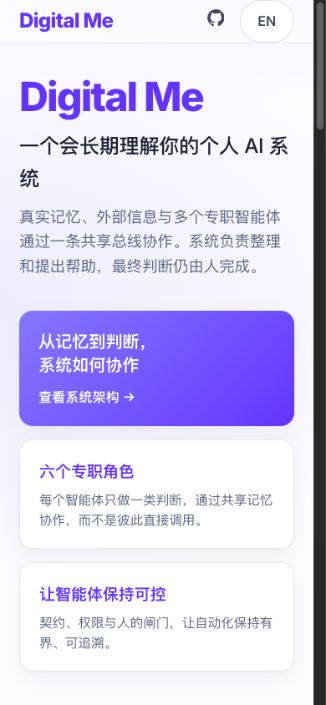
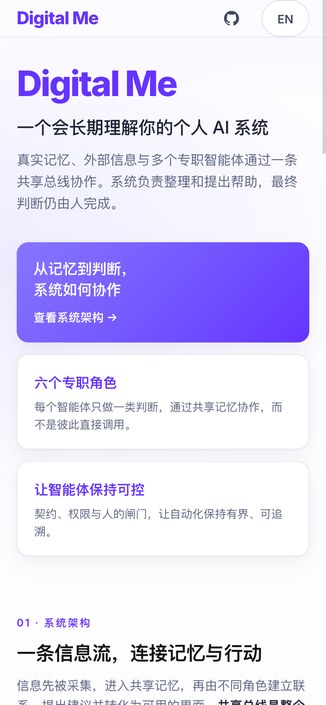
no-mistakes(review): Recapture QA screenshots at HEAD, add mobile English state

diff --git a/design-qa.md b/design-qa.md
@@ -5,7 +5,8 @@
 - Live baseline: `https://digital-me-dashboard.vercel.app/`
 - Side-by-side evidence: `qa/source-vs-minimal.jpg` (live baseline on the left, minimal architecture-first revision on the right)
 - Final desktop states: `qa/minimal-desktop-en-final.jpg`, `qa/minimal-desktop-zh.jpg`
-- Final mobile states: `qa/minimal-mobile-hero-zh-final.jpg`, `qa/minimal-mobile-structure-zh-final.jpg`
+- Final mobile states: `qa/minimal-mobile-hero-zh-final.jpg`, `qa/minimal-mobile-structure-zh-final.jpg`, `qa/minimal-mobile-structure-en-final.jpg`
+- Every screenshot above was captured from the current revision of `index.html`, at 1440x810 for desktop and 390x844 for mobile.
 
 ## Visual comparison
 
@@ -22,6 +23,8 @@
 - Chinese and English switching updates content, document language, and title.
 - The back-to-top control remains available after scrolling.
 - Desktop and mobile states have no document-level horizontal overflow.
-- On mobile, the GitHub label collapses to its source icon and the architecture diagram remains visible as the first project artifact.
+- On mobile, the GitHub label collapses to its source icon in a 44x44 tap target matching the language button, and the architecture diagram remains visible as the first project artifact.
+- The architecture diagram was checked in both languages on mobile and desktop: every tier label clears its nearest connector, with the longest label (`UNDERSTAND`) ending at x=123.1 against the connector at x=128.
+- Both diagram accessible names describe the nodes currently drawn.
 
 Result: passed
